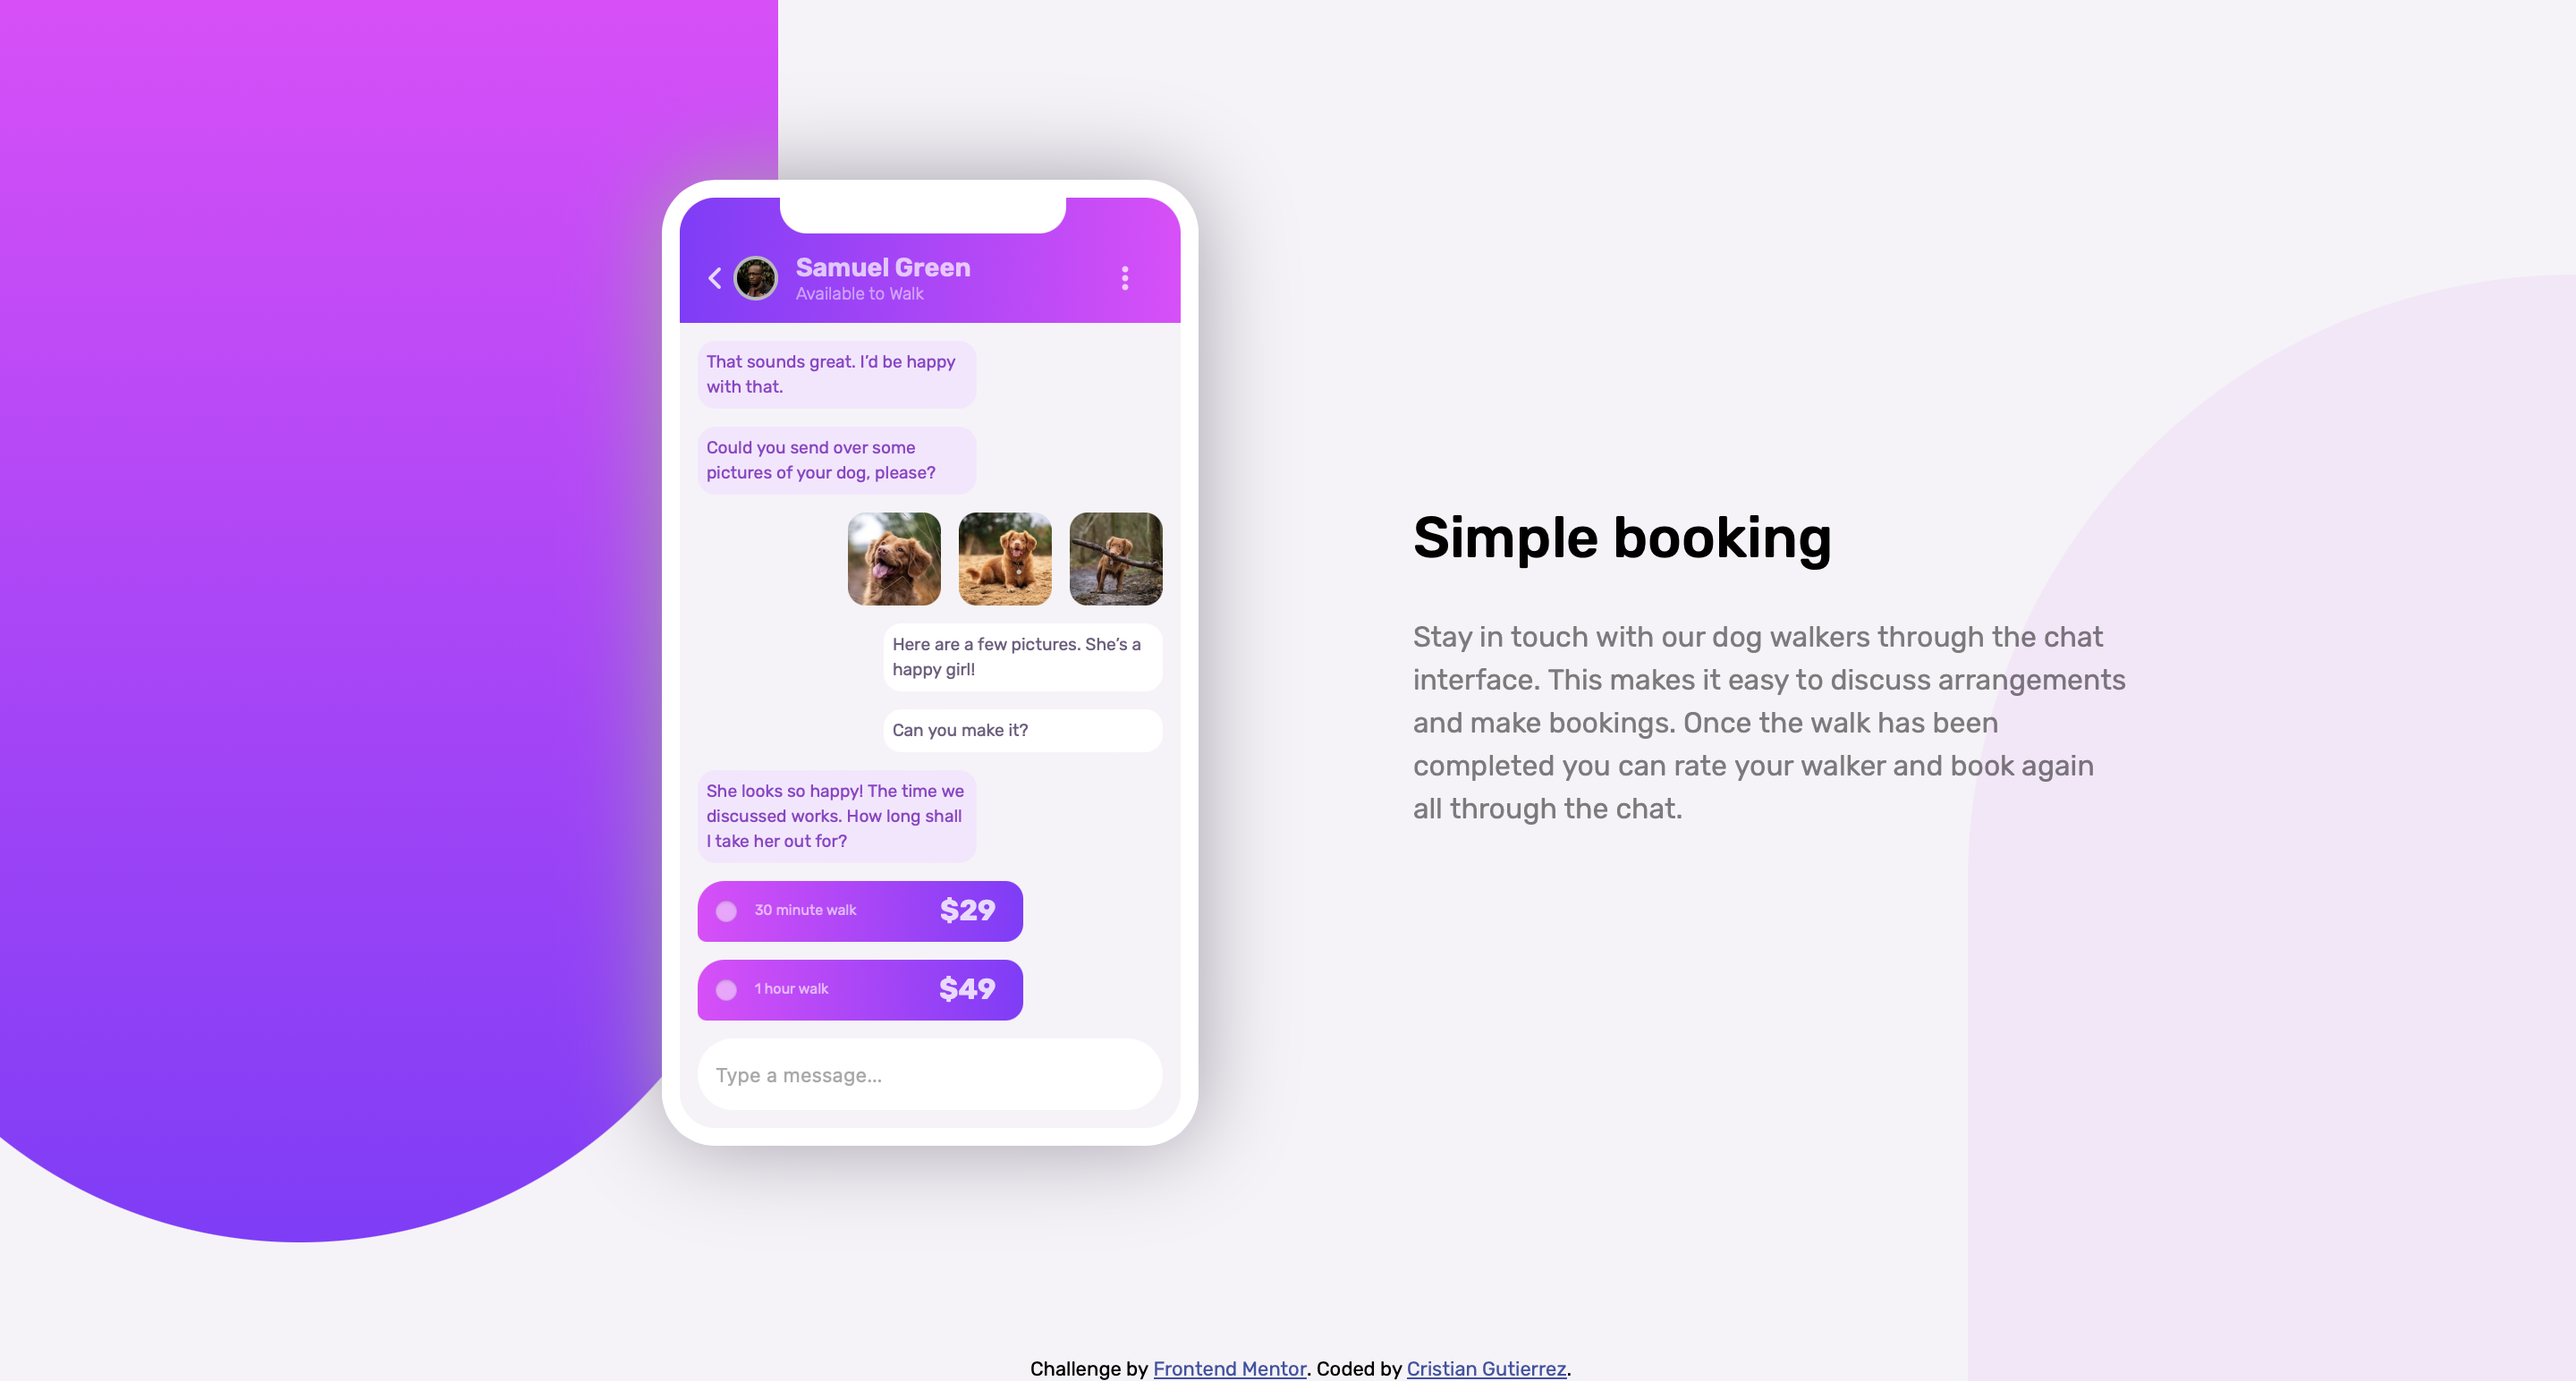
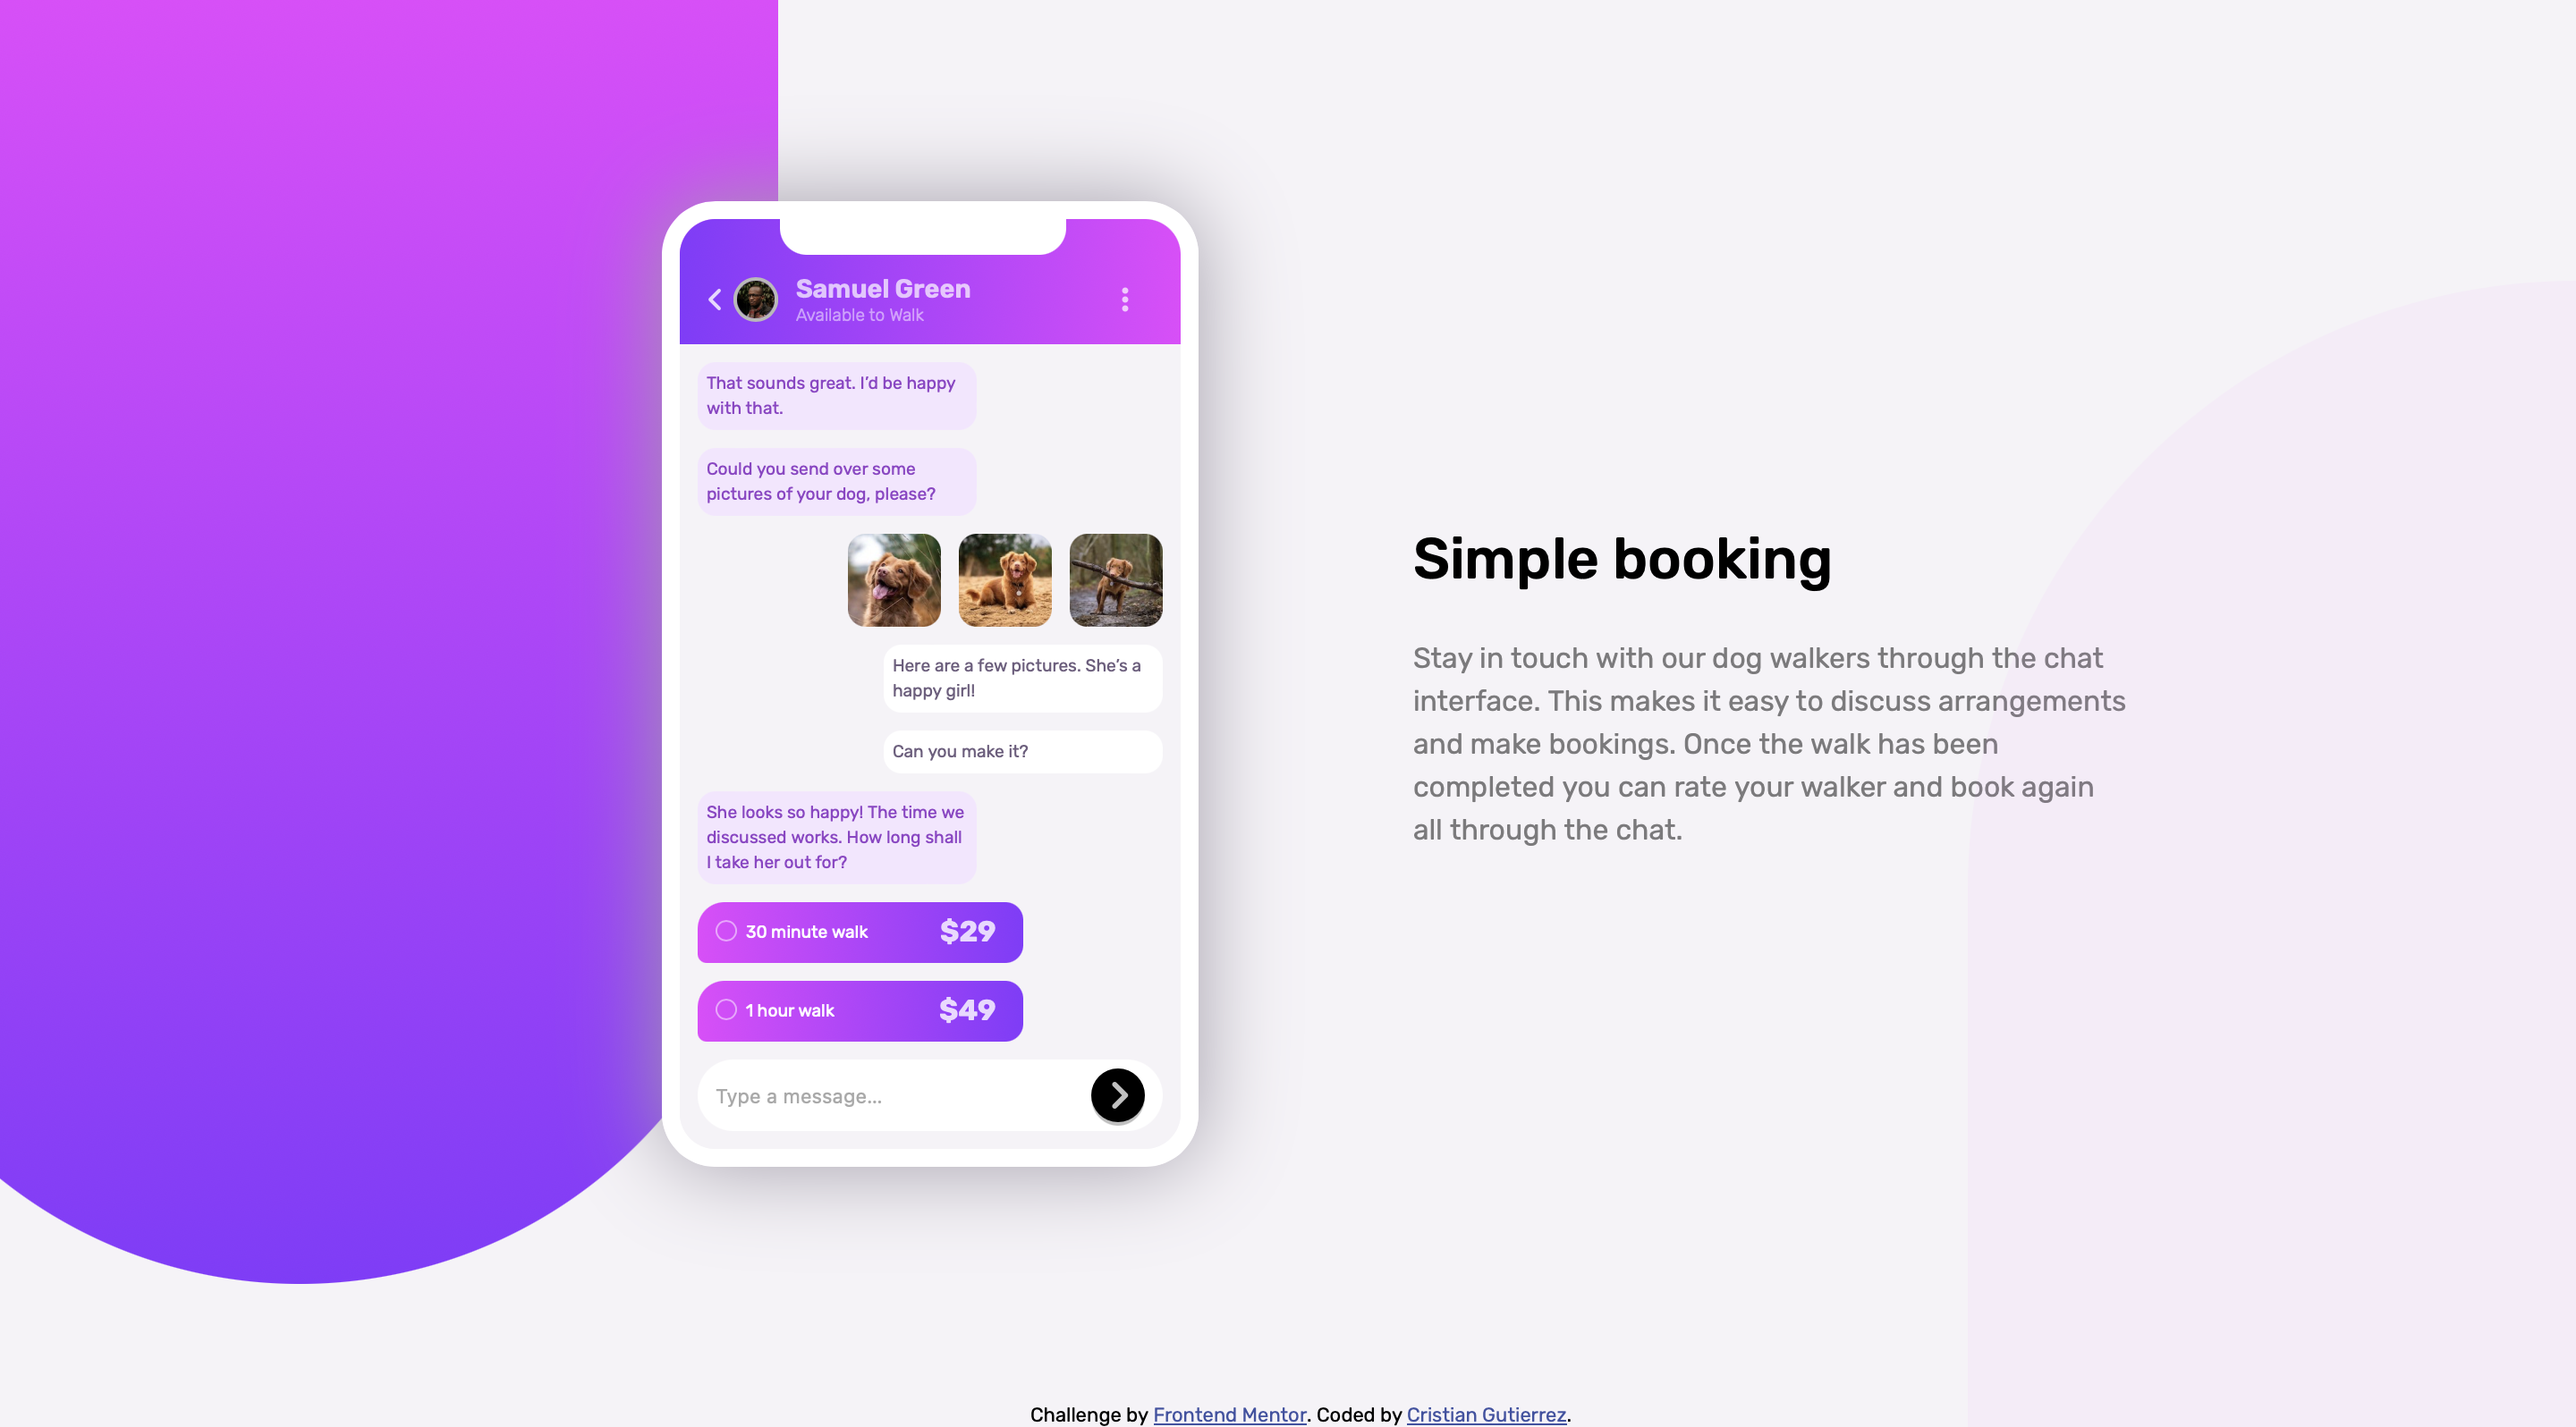
Radio button updated

diff --git a/index.html b/index.html
@@ -34,8 +34,7 @@
     <main>      
       <div class="back-purple"></div>
       <div class="back-pink"></div>
-      <div class="main-container">
-      
+      <div class="main-container">      
       <div class="phone-container">
         <div class="white-space"></div>
         <div class="user-container">  
@@ -71,22 +70,26 @@
               She looks so happy! The time we discussed works. How long shall I take
               her out for?
             </p>
-
+            
             <div class="prices--main-container">
               <div class="prices-container">
-                <div class="radio-text">
-                <label class="time"><input type="radio" name="radio"/>30 minute walk</label>
-              </div>
+                <div class="radio-text">                
+                  <input id="30min" type="radio" name="radio1" checked="checked"/>
+                  <label for="30min">30 minute walk</label>
+                </div>
                 <h1 class="price">$29</h1>
+              </div>
             </div>
             <div class="prices-container">
               <div class="radio-text">                
-                <label class="time"><input  type="radio" name="radio"/>1 hour walk</label>
+                <input  id="1hour" type="radio" name="radio1"  checked="checked"/>
+                <label for="1hour" class="time">1 hour walk</label>
               </div>
                  <h1 class="price">$49</h1>
-              </div>
             </div>
-            <input class="placeholder" placeholder="Type a message…"></input>
+            <div class="placeholder-box">
+            <input class="placeholder" placeholder="Type a message…"><button class="send-button" type="submit"><img src="/Images/circle-chevron-right-solid.svg"></button></input>
+            </div>
           </div>
        
         </div>

diff --git a/styles.css b/styles.css
@@ -53,15 +53,15 @@ main {
   );
 }
 
-  .back-pink {position: absolute;
-    bottom: 0;
-    left: 1100px;
-    border-radius: 400px 0px 0px;
-    width: 340px;
-    height: 80%;
-    background: var(--secondary-Very-Light-Magenta);
-    opacity: 10%;
-  }
+.back-pink {position: fixed;
+  bottom: 0;
+  left: 1100px;
+  border-radius: 400px 0px 0px;
+  width: 340px;
+  height: 80%;
+  background: var(--secondary-Very-Light-Magenta);
+  opacity: 5%;
+}
 
 .main-container {
   display: flex;
@@ -220,12 +220,6 @@ main {
   color: white;
 }
 
-.time {
-  opacity: 60%;
-  font-size: 0.5rem;
-}
-
-input{margin-right: 5px;}
 
 .price {
   opacity: 80%;
@@ -235,12 +229,37 @@ input{margin-right: 5px;}
 
 .radio-text {
   display: flex;
-  gap: 5px;
   padding: 5px;
 }
 
-input[type="radio"] {
+input[type="radio"]{
+  display: none ;
+}
+
+label{
+  display: flex;
+  width: cover;
+}
+
+label::before{
+  content: "";
+  height: 10px;
+  width: 10px;
+  border: 1px solid white;
+  border-radius: 50%;
+  margin-right: 5px;
   opacity: 50%;
+}
+
+label[type="radio"]:checked + label{
+  background-color: white;
+}
+
+label[type="radio"]:checked + label::before{
+  height: 10px;
+  width: 10px;
+  border: 10px solid white;
+  background-color: transparent;
 }
 
 .placeholder {
@@ -252,6 +271,24 @@ input[type="radio"] {
   padding-left: 10px;
   border: none;
 }
+
+.placeholder-box{
+  position: relative;
+  align-items: center;
+  display: flex;
+  width: 100%;
+  height: 50px;
+  padding: 0px;}
+
+.send-button{
+  position: absolute;
+  right: 10px;
+  top: 15px;
+  width: 30px;
+  border: none;
+  border-radius: 50%;}
+
+
 
 /* Right main content */
 
